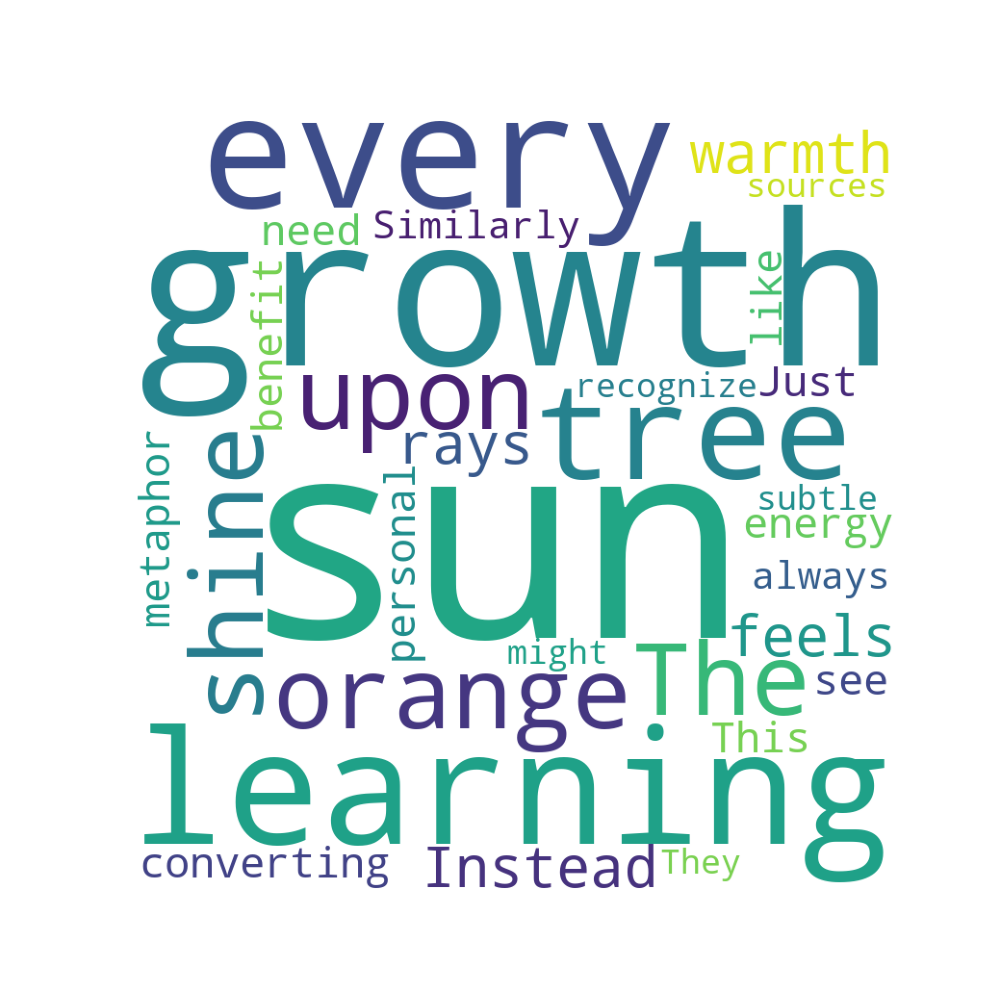
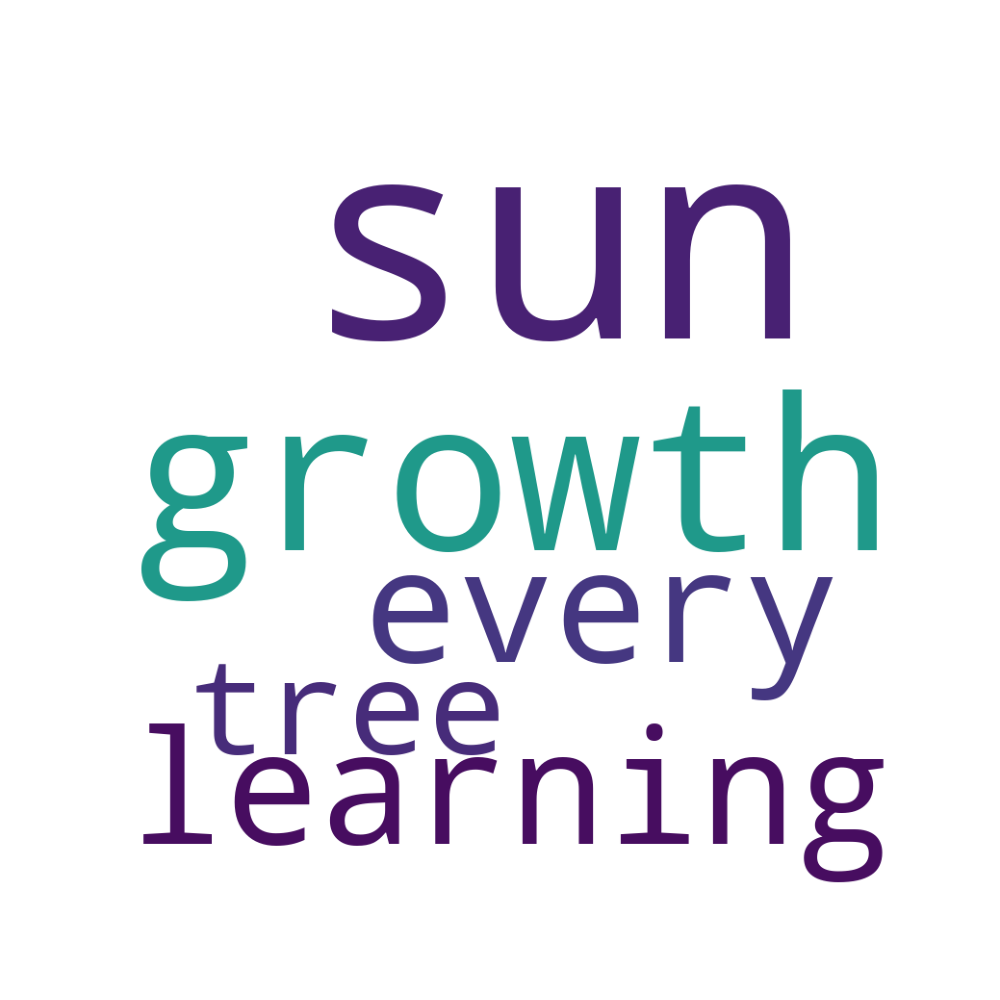
handle min length

Changed region(s): [[0.124, 0.124, 0.899, 0.899]]

diff --git a/word_cloud.py b/word_cloud.py
@@ -18,9 +18,12 @@ nltk.download('stopwords')
 app = Flask(__name__, static_folder='outputs')
 CORS(app)
 
-def get_tags(text, max_count):
-    # Tokenize and filter out stopwords and non-alphabetic tokens
-    tokens = [word for word in word_tokenize(text) if word.isalpha() and word not in stopwords.words('english')]
+def get_tags(text, max_count, min_length):
+    # Tokenize and filter out stopwords, non-alphabetic tokens, and tokens below the min_length
+    tokens = [word for word in word_tokenize(text)
+              if word.isalpha()
+              and word not in stopwords.words('english')
+              and len(word) >= min_length]
     count = Counter(tokens)
     return dict(count.most_common(max_count))
 
@@ -36,11 +39,11 @@ def make_cloud_image(tags, file_name):
     plt.axis("off")
     fig.savefig("outputs/{0}.png".format(file_name))
 
-def process_from_text(text, max_count, words, file_name):
-    tags = get_tags(text, max_count)
+def process_from_text(text, max_count, min_length, words, file_name):
+    tags = get_tags(text, int(max_count), int(min_length))
     for n, c in words.items():
         if n in tags:
-            tags[n] = tags[n] * int(words[n])
+            tags[n] = tags[n] * float(words[n])
     make_cloud_image(tags, file_name)
 
 @app.route("/process", methods=['GET', 'POST'])
@@ -50,7 +53,7 @@ def process():
     if content['words'] is not None:
         for data in content['words']:
             words[data['word']] = data['weight']
-    process_from_text(content['text'], content['maxCount'], words, content['textID'])
+    process_from_text(content['text'], content['maxCount'], content['minLength'], words, content['textID'])
     result = {'result': True}
     return jsonify(result)
 
